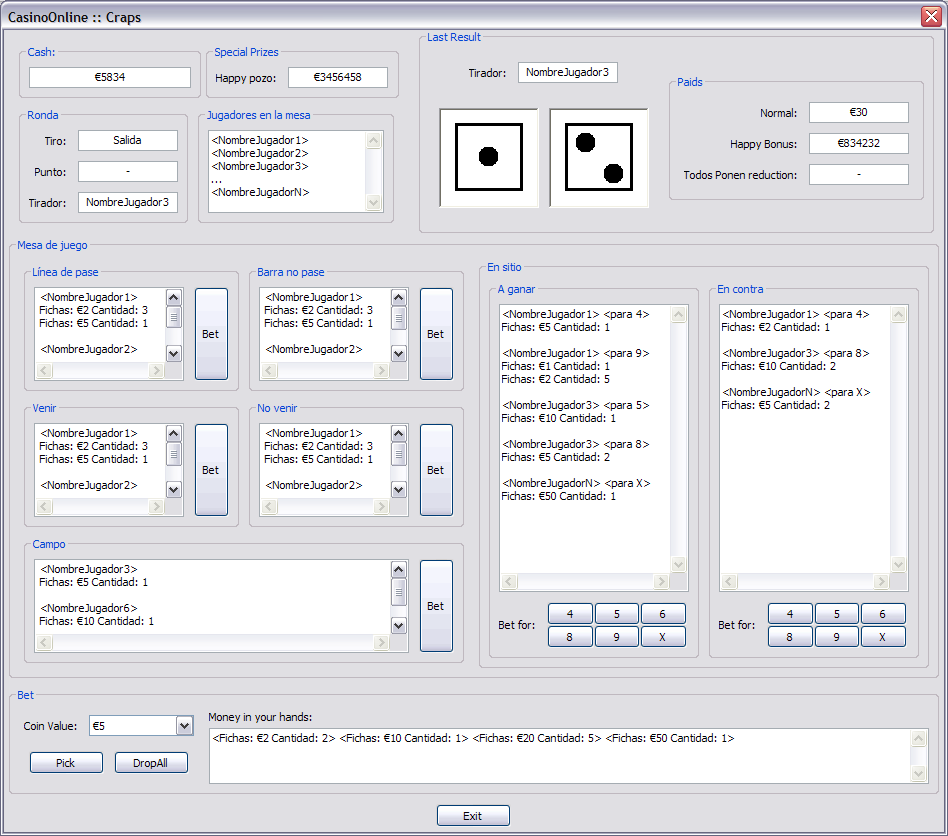
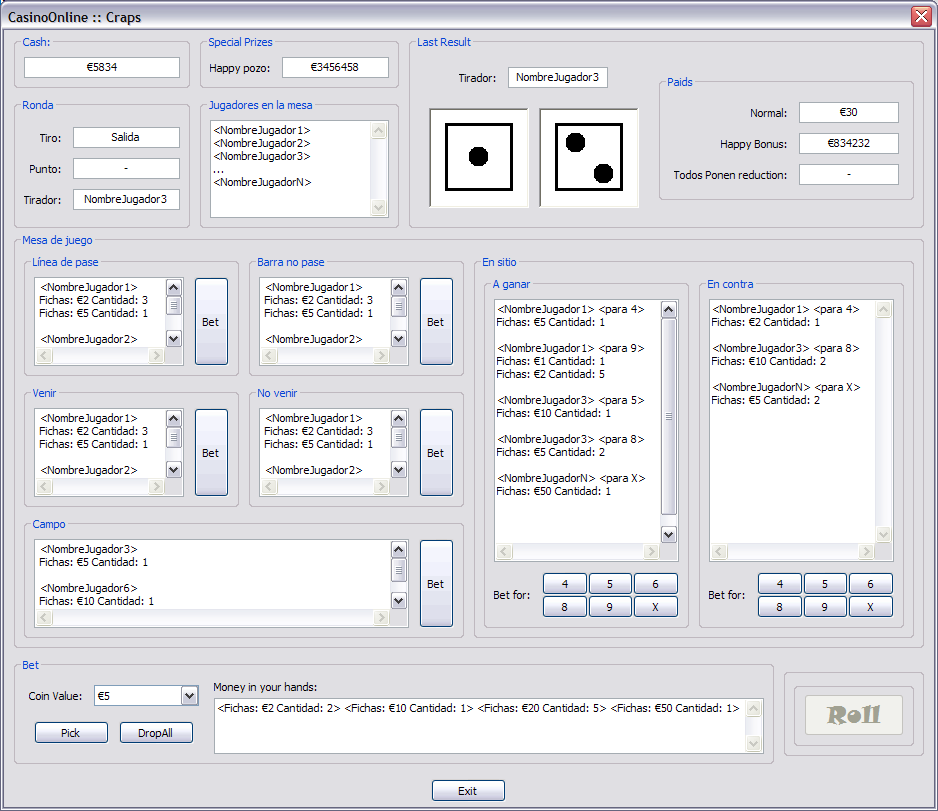
added      tp2/img/DS_Craps/ApostarCraps/DS_ApostarCrapsCliente.png + ds apostar craps desde la generación del pedido hasta el procesamiento de las posibles respuestas (no incluye handleo de notificación por cambio de estado craps vía E/H)
modified   tp2/img/PrototiposPantalla/PlayerClient_Craps.png
+ botón "Tirar" (Roll) :P

modified   tp2/informe/diagrama_clases.tex
deleted    tp2/informe/diagrama_clases_cliente.tex
added      tp2/informe/diagrama_clases_cliente_administrador.tex
added      tp2/informe/diagrama_clases_cliente_jugador.tex
modified   tp2/informe/diagrama_clases_introduccion.tex
modified   tp2/informe/diagrama_clases_servidor.tex
+ intro DC clientes y prototipos de pantalla

Changed region(s): [[0.0, 0.0, 1.0, 1.0], [0.7111, 0.0925, 0.742, 0.1233]]

diff --git a/trunk/tp2/informe/diagrama_clases_servidor.tex b/trunk/tp2/informe/diagrama_clases_servidor.tex
@@ -1,7 +1,7 @@
 \subsection{Gr'aficos del Diagrama}
 Para facilitar la visualizaci'on del diagrama de clases, en lugar de imprimirlo completamente (de ser as'i se necesitar'ia una enorme mesa con agujeros en el medio para poder recorrerlo) preferimos particionarlo generando un gr'afico por cada m'odulo. Notar que en cada diagrama de m'odulo s'olo se muestran las clases de 'este (tambi'en, solo se muestran las asociaciones y dependencias de 'estas clases y no otras). La distribuci'on gr'afica fue modificada en cada caso para la claridad del diagrama. 
 
-En el soporte digital adicionado junto al presente informe se encuentran no s'olo todas las im'agenes aqu'i presentadas si no que adem'as, por ejemeplo, el diagrama de clases completo (ese que necesita una mesa con agujeros) y las versiones a color de todos los diagramas (se asegura un mayor disfrute al leer esos que 'estos \italica{printer friendly}).
+En el soporte digital adicionado junto al presente informe se encuentran no s'olo todas las im'agenes aqu'i presentadas si no que adem'as, por ejemplo, el diagrama de clases completo (ese que necesita una mesa con agujeros) y las versiones a color de todos los diagramas (se asegura un mayor disfrute al leer esos que 'estos \italica{printer friendly}).
 \clearpage
 
 
@@ -47,13 +47,13 @@ Para facilitar el dise'no, mantener un nivel bajo de acoplamiento e incluso fome
 
 
 \subsubsection{Comunicaci'on}
-Se encarga de mantener la comunicaci'on de bajo nivel contra los clientes. 'Esto incluye la recepci'on de pedidos y el envio de las respuestas y mensajes de estado. Adem'as es el encargado de abstraer el medio de comunicaci'on (por ejemplo, por archivo que es el utilizado en el presente trabajo). Su l'ogica es simple y genera, consistiendo de rutinas de escucha de mensajes
+Se encarga de mantener la comunicaci'on de bajo nivel contra los clientes. 'Esto incluye la recepci'on de pedidos y el envio de las respuestas y mensajes de estado. Adem'as es el encargado de abstraer el medio de comunicaci'on (por ejemplo, por archivo que es el utilizado en el presente trabajo). Su l'ogica es simple y general, consistiendo de rutinas de escucha de mensajes.
 
 \subsubsubsection{Clases relevantes}
 
 \begin{description}
-\item[ReceptorPedidos] Es el encargado de \italica{poolear} el medio que le fue especificado en b'usqueda de nuevos pedidos. Posee un ReceptorPedidosConcreto qui'en es el encargado de especificar el medio por el cual debe escuchar pedidos (en nuestro caso, por archivo) y es establecido en el arranque de la aplicaci'on. Una vez que se invoca a ComenzarRecepcion, el servidor ya est'a listo para comenzar a recibir pedidos de clientes. Notar que no es un singleton porque no se requiere limitar la cantidad de receptores (pueden haber uno por thread si el sistema fuese multithreading) ni requiere ser referenciado. 
-\item[DespachadorRespuestas] Similar al receptor, 'este se encarga de enviar la respuesta ya generada de vuelta a un cliente. Es un singleton para que se permita su uso a quien as'i lo requiera, pero no para limitar la cantidad de instancias (en principio, podrian ser m'as si se necesitan atender despachos de varios threads). Al igual que el receptor, posee un DespachadorRespuestasEspecifico que se encarga de hacer el env'io real porque es quien realmente conoce el medio por donde se debe enviar la respuesta (en nuestro caso, por archivo).
+\item[ReceptorPedidos] Es el encargado de \italica{pollear} el medio que le fue especificado en b'usqueda de nuevos pedidos. Posee un ReceptorPedidosConcreto quien es el encargado de especificar el medio por el cual debe escuchar pedidos (en nuestro caso, por archivo) y es establecido en el arranque de la aplicaci'on. Una vez que se invoca a ComenzarRecepcion, el servidor ya est'a listo para comenzar a recibir pedidos de clientes. Notar que no es un singleton porque no se requiere limitar la cantidad de receptores (pueden haber uno por thread si el sistema fuese multithreading) ni requiere ser referenciado. 
+\item[DespachadorRespuestas] Similar al receptor, 'este se encarga de enviar la respuesta ya generada de vuelta a un cliente. Es un singleton para que se permita su uso a quien as'i lo requiera, pero no para limitar la cantidad de instancias (en principio, podr'ian ser m'as si se necesitan atender despachos de varios threads). Al igual que el receptor, posee un DespachadorRespuestasEspecifico que se encarga de hacer el env'io real porque es quien realmente conoce el medio por donde se debe enviar la respuesta (en nuestro caso, por archivo).
 \end{description}
 
 

diff --git a/trunk/tp2/informe/diagrama_clases_cliente_jugador.tex b/trunk/tp2/informe/diagrama_clases_cliente_jugador.tex
@@ -1,0 +1,43 @@
+Debido a la necesidad de una interfaz gr'afica de usuario para la utilizaci'on del producto, decidimos adoptar como estrategia para el modelado una aproximaci'on a un sistema de eventos y ventanas tal como los masivamente usados en casi todas las plataformas. En este tipo de sistemas el desarrollador de aplicaciones consta con bibliotecas y APIs que le permiten interactuar con el sistema de ventanas y eventos. Hemos realizado la simplificaci'on y abstracci'on que creemos conveniente para que nuestros diagramas sean simples y al mismo tiempo lo suficientemente expresivos para no dejar de lado cuestiones que hacen al mundo de la programaci'on orientada a eventos.
+Presentamos a continuaci'on la descripci'on de los m'odulos componentes.
+
+\subsubsection{GUI}
+Es el conjunto de clases que modelan la interfaz gr'afica presentada al usuario.
+
+\subsubsubsection{Clases relevantes}
+
+\begin{description}
+\item[\italica{Ventana}] Modela la clase base a toda representaci'on subyacente de un gr'afico de ventana. Generalmente esta clase es provista por una biblioteca. Es de esta clase que, mediante herencia, podemos definir las ventanas personalizadas que utilizan nuestros clientes.
+\end{description}
+
+\subsubsection{Controladores GUI}
+Consisten en el conjunto de clases que controlan los eventos desencadenados por acciones del usuario en su interacci'on con el sistema de ventanas o generados exclusivamente por el sistema de ventanas. Existe un controlador por cada ventana a excepci'on de ventanas particularmente sencillas de las cuales no resulta imprescindible manejar de una forma interesante los eventos que podr'ia generar un usuario al interaccionar con las mismas.
+
+Nuestro diagrama puede dar una noci'on parcial referente a la apariencia visual de las ventanas gr'aficas definidas si inferimos y caracterizamos de alguna forma intuitiva los nombres de los m'etodos de las clases de ventanas y controladores. Cre'imos apropiado incluir una descripci'on aproximada pero mucho m'as precisa de c'omo lucir'an nuestras interfases gr'aficas en el producto final. Adem'as, es en estas interfases en las que pensamos al momento de dise'nar el cliente, con lo cual hay una correspondencia 1 a 1 (salvando algunos casos) con las clases presentadas en el diagrama.
+
+\subsubsubsection{LogIn}
+\imagen{PrototiposPantalla/PlayerClient_SignIn.png}{Prototipo de pantalla de ingreso al casino. Clase \italica{VentanaLogin}}{1}
+\clearpage
+
+\subsubsubsection{Lobby}
+\imagen{PrototiposPantalla/PlayerClient_Lobby.png}{Prototipo de pantalla del lobby del casino. Clase \italica{VentanaLobby}}{1}
+\clearpage
+
+\subsubsubsection{Selecci'on de ficha}
+\imagen{PrototiposPantalla/PlayerClient_SelectCoinValue.png}{Prototipo de pantalla de selecci'on de ficha. Clase \italica{VentanaSeleccionarValorFicha}}{1}
+\clearpage
+
+\subsubsubsection{Selecci'on de mesa}
+\imagen{PrototiposPantalla/PlayerClient_SelectTable.png}{Prototipo de pantalla de selecci'on de mesa. Clase \italica{VentanaSeleccionarMesa}}{1}
+\clearpage
+
+\subsubsubsection{Tragamonedas}
+\imagen{PrototiposPantalla/PlayerClient_Tragamonedas.png}{Prototipo de pantalla del juego Tragamonedas. Clase \italica{VentanaTragamonedas}}{0.8}
+\clearpage
+
+\subsubsubsection{Craps}
+\imagenvertical{PrototiposPantalla/PlayerClient_Craps.png}{Prototipo de pantalla del juego Craps. Clase \italica{VentanaCraps}}{0.65}
+\clearpage
+
+\subsubsection{Comunicaci'on}
+Esquema semejante al que utilizamos para el dise'no del servidor aunque con algunos cambios que vale la pena mencionar.

diff --git a/trunk/tp2/informe/diagrama_clases_introduccion.tex b/trunk/tp2/informe/diagrama_clases_introduccion.tex
@@ -1,7 +1,8 @@
 La arquitectura del casino se compone por:
 
 \begin{description}
-\item[Cliente] Sirve como interfaz gr'afica utilizada por los usuarios finales encargada de transformar las acciones de ellos en el pedido correspondiente y enviarlo al servidor. Adem'as es el encargado de reflejar la respuesta de 'este en la interfaz para informaci'on del usuario.
+\item[Cliente Jugador] Sirve como interfaz gr'afica utilizada por los usuarios finales encargada de transformar las acciones de ellos en el pedido correspondiente y enviarlo al servidor. Adem'as es el encargado de reflejar la respuesta de 'este en la interfaz para informaci'on del usuario.
+\item[Cliente Administrador] Es la interfaz que permite a administradores la configuraci'on del modo dirigido y el pedido de reportes.
 \item[Servidor] Es la aplicaci'on adonde los clientes envian sus pedidos y la cual les responde con la informaci'on necesitada. Lleva el estado de todas las entidades del casino y contiene la l'ogica establecida por cada uno de ellos.
 \end{description}
 

diff --git a/trunk/tp2/informe/diagrama_clases_cliente_administrador.tex b/trunk/tp2/informe/diagrama_clases_cliente_administrador.tex
@@ -1,0 +1,22 @@
+\todo{Hacer esto}
+\clearpage
+
+\subsubsubsection{Panel de administraci'on}
+\imagen{PrototiposPantalla/PlayerAdmin_AdminPanel.png}{Prototipo de pantalla del panel de administradores}{1}
+\clearpage
+
+\subsubsubsection{Verificaci'on de identidad}
+\imagen{PrototiposPantalla/PlayerAdmin_VerifyPassword.png}{Prototipo de pantalla de verificaci'on de password de administrador}{1}
+\clearpage
+
+\subsubsubsection{Modo Dirigido :: Tragamonedas}
+\imagen{PrototiposPantalla/PlayerAdmin_Tragamonedas.png}{Prototipo de pantalla de configuraci'on del modo dirigido para el juego Tragamonedas}{1}
+\clearpage
+
+\subsubsubsection{Modo Dirigido :: Craps}
+\imagen{PrototiposPantalla/PlayerAdmin_Craps.png}{Prototipo de pantalla de configuraci'on del modo dirigido para el juego Craps}{1}
+\clearpage
+
+\subsubsubsection{Modo Dirigido :: Jugada Feliz}
+\imagen{PrototiposPantalla/PlayerAdmin_HappyMove.png}{Prototipo de pantalla de configuraci'on de la jugada feliz en modo dirigido}{1}
+\clearpage

diff --git a/trunk/tp2/informe/diagrama_clases.tex b/trunk/tp2/informe/diagrama_clases.tex
@@ -4,5 +4,8 @@
 \subsection{Servidor}
 \input{diagrama_clases_servidor.tex}
 
-\subsection{Cliente}
-\input{diagrama_clases_cliente.tex}
+\subsection{Cliente Jugador}
+\input{diagrama_clases_cliente_jugador.tex}
+
+\subsection{Cliente Administrador}
+\input{diagrama_clases_cliente_administrador.tex}
